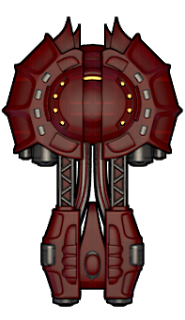
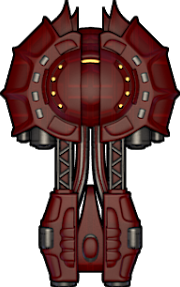
Crop mob images

diff --git a/main.py b/main.py
@@ -838,7 +838,7 @@ class Powerup(pg.sprite.Sprite):
 class GreyMob(pg.sprite.Sprite):
     '''elongated grey alienship'''
     image = SpriteSheet(join(IMAGES_FOLDER, "mobs", 'greymob.png')
-                        ).get_image_advanced(size=(100, 100))
+                        ).get_image_advanced(size=(61, 92))
     count = 0
     duration = get_ticks()
     next_time = duration
